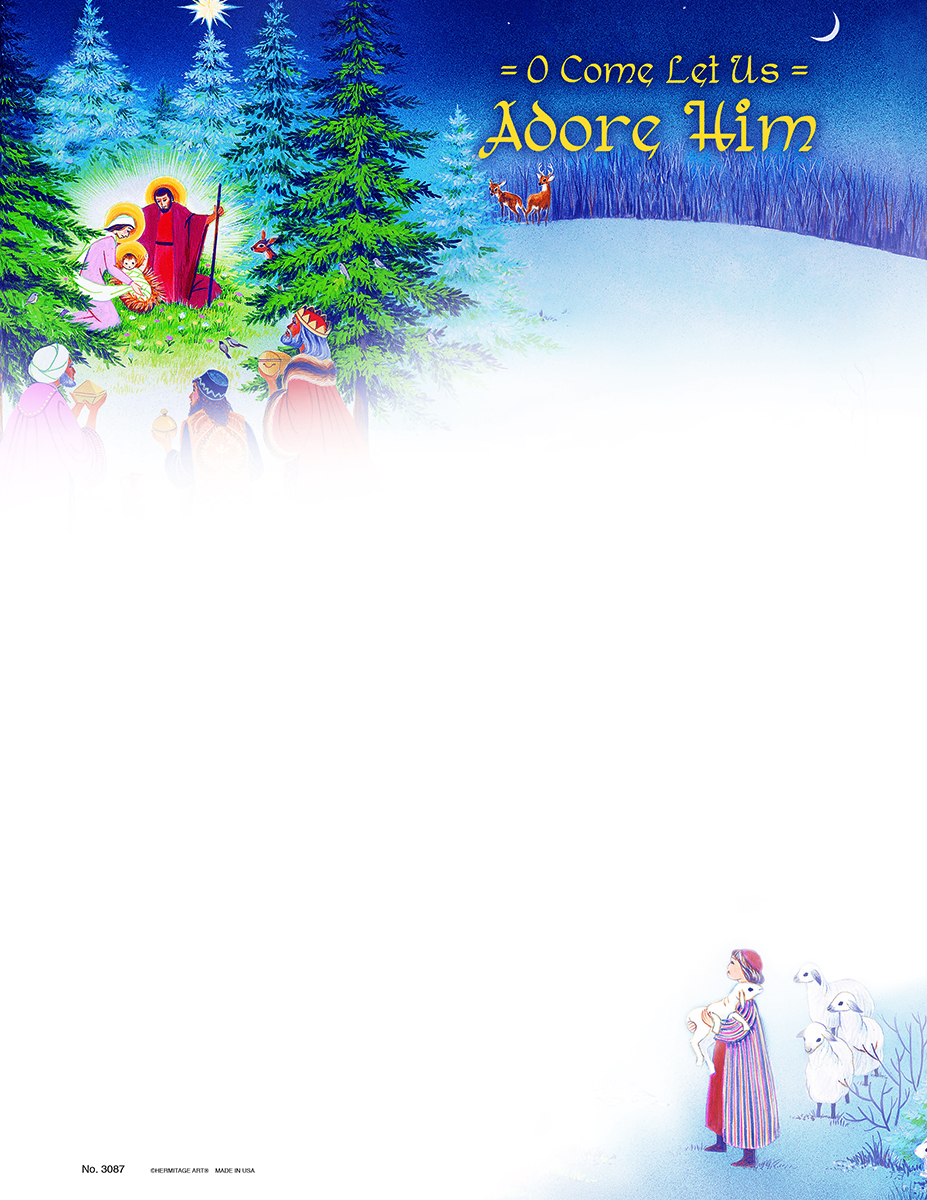
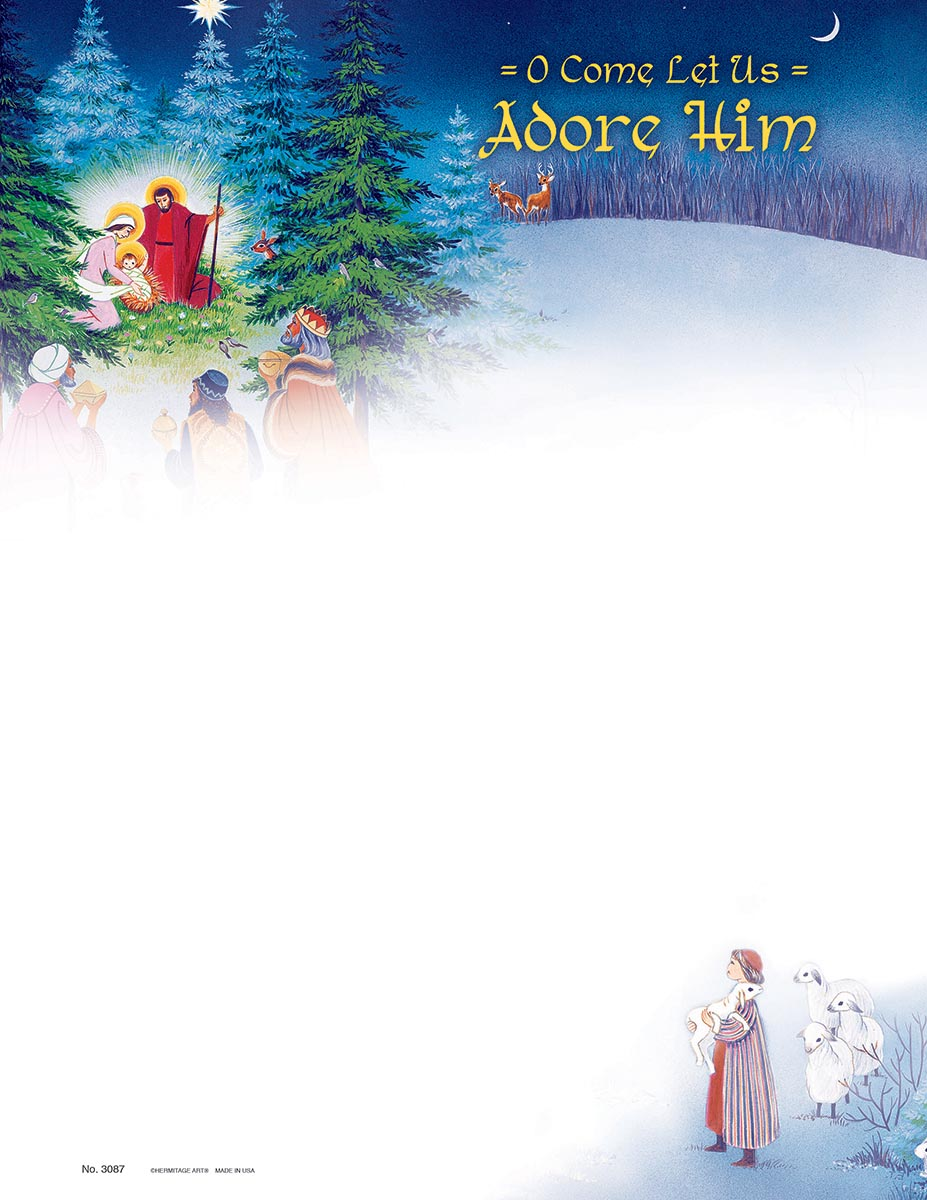
Image Compression

Changed region(s): [[0.0, 0.0, 1.0, 0.37], [0.6947, 0.7708, 1.0, 1.0], [0.8759, 0.8325, 0.9364, 0.8942]]

diff --git a/index.html b/index.html
@@ -99,7 +99,7 @@
       <div class="container-fluid bg-sky px-0 px-md-5 py-5" id="personal_branding">
 
         <div class="p-5 container">
-          <img src="images\NBP-12Up_recolored.jpg" class="w-100 border border-white shadow" alt="Photography Business Cards">
+          <img src="images\NBP-12Up_recolored.gif" class="w-100 border border-white shadow" alt="Photography Business Cards">
           <div class="caption d-flex flex-row justify-content-between align-items-end">
             <span class="flex-grow-1"><em>Photographer Business Cards</em></span>
             <span>Personal Branding</span>
@@ -187,7 +187,7 @@
               </div>
             </div>
             <div class="col-7">
-              <img src="images\BW-Promo_Cover.png" class="w-100 shadow" alt="">
+              <img src="images\BW-Promo_Cover.jpg" class="w-100 shadow" alt="">
             </div>
           </div>
           <div class="caption caption-white d-flex flex-row justify-content-between align-items-end">
@@ -205,7 +205,7 @@
         <div class="p-5 text-center container">
           <div class="row align-items-center">
             <div class="col-6">
-              <img src="images\XmasDTC16_Final-1.png" class="w-100 shadow" alt="">
+              <img src="images\XmasDTC16_Final-1.jpg" class="w-100 shadow" alt="">
             </div>
             <div class="col-6">
               <div class="row mb-3">
@@ -247,8 +247,8 @@
       <div class="container-fluid bg-sky px-0 px-md-5 py-5" id="sonic">
         <div class="py-5 container">
           <div class="d-flex flex-row justify-content-around py-5">
-            <img src="images\Sonic Illustration_edited.jpg" class="border border-white shadow" width="40%" alt="Sonic Illustrator work">
-            <img src="images\Sonic Scan_edited.jpg" class="border border-white shadow" width="40%" alt="Sonic collagraph print">
+            <img src="images\Sonic-Illustration_edited.gif" class="border border-white shadow" width="40%" alt="Sonic Illustrator work">
+            <img src="images\Sonic Scan_reduced.jpg" class="border border-white shadow" width="40%" alt="Sonic collagraph print">
           </div>
           <div class="caption d-flex flex-row justify-content-between align-items-end">
             <span class="flex-grow-1"><em>Sonic</em></span>
